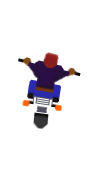
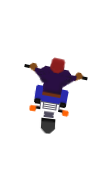
Add offroad sprites and basic functionalities

Changed region(s): [[0.18, 0.2717, 0.9, 0.7337]]

diff --git a/javascript/Sprite.js b/javascript/Sprite.js
@@ -10,38 +10,95 @@ class Sprite {
         this.w;
         this.h;
         let spriteSpeed;
+        this.isXWing = false;
 
         // Depending on the sprite variable, we will render different type of cars/blocks/rocks:
         if (sprite === "car") {
             // Since we have multiple cars, we will create a random variable so we render different images:
-            randomNumImage = Math.floor(Math.random() * 8) + 1;
+            randomNumImage = Math.floor(Math.random() * 10) + 1;
             this.img.src = `images/sprite${randomNumImage}.png`;
         } else if (sprite === "rock") {
             // Since we have multiple rocks, we will create a random variable so we render different images:
             // todo Adapt to rocks: randomNumImage = Math.floor(Math.random() * 7) + 1;
             // todo Adapt to rocks: this.img.src = `images/car${randomNumImage}.png`;
+            // console.log("Rock sprites coming.") // * TEST
+            randomNumImage = Math.floor(Math.random() * 7) + 1;
+            // If the randomNumImage is 7, we will render our dino GIF:
+            if (randomNumImage === 8) {
+                this.img.src = `images/rock-sprite-${randomNumImage}.gif`;
+            } else {
+                this.img.src = `images/rock-sprite-${randomNumImage}.png`;
+            }
         }
-        console.log(this.img.src);
+        // console.log(this.img.src); // * TEST
         // We also need a variable to randomly position the image on the X axis (120, 208, 296 or 384 pixels, which are the X position of the lanes of the vehicles):
         let randomNumX = 0;
         // todo We will create a setInterval so the sprite Speed goes up (every 10 seconds)
 
-        // The road blocks should move as fast as the road and should only be on the side left lane (89px):
-
-        if (randomNumImage === 8) {
-            spriteSpeed = 4;
-            randomNumX = 120;
-            this.w = 80;
-            this.h = 80;
+        // The road blocks should move as fast as the road and should only be on the side left lane (120px):
+        if (sprite === "car") {
+            if (randomNumImage === 8) {
+                spriteSpeed = 4;
+                randomNumX = 120;
+                this.w = 80;
+                this.h = 80;
+            } else {
+                spriteSpeed = 2;
+                randomNumX = Math.floor(Math.random() * 4) * 88 + 120;
+                if (randomNumImage === 9 || randomNumImage === 10) {
+                    this.w = 80;
+                    this.h = 120;
+                } else {
+                    this.w = 100;
+                    this.h = 150;
+                }
+            }
         } else {
-            spriteSpeed = 2;
+            console.log("Will draw rock sprites")
             randomNumX = Math.floor(Math.random() * 4) * 88 + 120;
-            this.w = 100;
-            this.h = 150;
+
+            // If the randomNumImage is 2, we will render a motorcycle wich is smaller than the other sprites:
+            if (randomNumImage === 2) {
+                spriteSpeed = 2;
+                this.w = 80;
+                this.h = 120;
+                this.y = 140;
+            }
+            // If the randomNumImage is 3, we will render our X-Wing faster then the road (and it will move also on the X axis):
+            else if (randomNumImage === 3) {
+                randomNumX = 0;
+                this.isXWing = true;
+                spriteSpeed = 10;
+                this.w = 300;
+                this.h = 300;
+                this.y = 0;
+            } 
+            // If the randomNumImage is 4 or 5, we will render our rocks as fast as the road:
+            else if (randomNumImage === 4 || randomNumImage === 5) {
+                spriteSpeed = 4;
+                this.w = 100;
+                this.h = 150;
+                this.y = 140;
+            } else if (randomNumImage === 6) {
+                spriteSpeed = 4;
+                this.w = 150;
+                this.h = 100;
+                this.y = 140;
+            } else if (randomNumImage === 7) {
+                spriteSpeed = 4;
+                this.w = 150;
+                this.h = 150;
+                this.y = 140;
+            }
+            else {
+                spriteSpeed = 2;
+                this.w = 100;
+                this.h = 150;
+                this.y = 140;
+            }
         }
 
         this.x = randomNumX;
-        this.y = 140;
         this.speed = spriteSpeed;
     }
 
@@ -49,9 +106,15 @@ class Sprite {
     // Draw it:
     draw = () => {
         ctx.drawImage(this.img, this.x, this.y, this.w, this.h);
+        
     };
     // Move it torwards the bottom;
     move = () => {
-        this.y += this.speed;
+        if (this.isXWing) {
+            this.x += this.speed;
+            this.y += this.speed;
+        } else {
+            this.y += this.speed;
+        }
     };
 }

diff --git a/javascript/main.js b/javascript/main.js
@@ -14,27 +14,31 @@ const exitBtn = document.querySelector("#exit-btn");
 const startOffroadBtn = document.querySelector("#start-offroad-btn");
 // Canvas:
 const canvas = document.querySelector("#main-canvas");
-// ? const canvasOffroad = document.querySelector("#offroad-canvas");
+// Note that we will use the same canvas for both roads (normal and offroad).
 
 // Create the canvas variables:
 const ctx = canvas.getContext("2d");
-// ? const ctxOffroad = canvasOffroad.getContext("2d");
 
 // Create a general game object (to be accessed by other functions, event listeners, etc..):
 let mainGameObj;
-// ? let offroadGameObj;
 
 // * STATE MANAGEMENT FUNCTIONS
 
 // Create a function to start the main game:
-const startMainGame = () => {
+// Note the functions parameter that will come from the event listeners, and will render either the normal or the off road.
+const startMainGame = (isNormalGame) => {
     console.log("Starting main game!");
     // * 1. Change the game screens:
     startScreen.style.display = "none";
     canvas.style.display = "block";
 
     // * 2. Create game elements:
-    mainGameObj = new MainGame();
+    // If isNormalGame, we will send "true" as an argument to create the new object:
+    if (isNormalGame) {
+        mainGameObj = new MainGame(true);
+    } else {
+        mainGameObj = new MainGame(false);
+    }
     // console.log(mainGameObj); //* TEST
 
     // * 3. Start the game loop (recursion):
@@ -42,22 +46,6 @@ const startMainGame = () => {
     mainGameObj.gameLoop();
 };
 
-// ? const startOffroadGame = () => {
-//     console.log("Starting offroad game!");
-//     // * 1. Change the game screens:
-//     winScreen.style.display = "none";
-//     canvasOffroad.style.display = "block";
-
-//     // * 2. Create game elements:
-//     offroadGameObj = new OffroadGame();
-//     console.log(offroadGameObj);
-
-//     // * 3. Start the game loop (recursion):
-//     // Access the method from the new obejct:
-//     offroadGameObj.gameLoop();
-// }
-
-// ? startOffroadGame(); // ! Must be inside an event listener! will run before OffroadGame is created.
 
 // Create a function to be called by the keydown event listener and change the rider's direction:
 const changeRidersDirKeyDown = (event) => {
@@ -106,10 +94,15 @@ const changeRidersDirKeyUp = (event) => {
 // * ADD EVENT LISTENERS
 
 // Create an event listener fot the startMainGameBtn to execute startMainGame function:
-startMainGameBtn.addEventListener("click", startMainGame);
-
-// ? Create an event listener fot the startOffroadGameBtn to execute startOffroadGame function:
-// ? startOffroadBtn.addEventListener("click", startOffroadGame);
+startMainGameBtn.addEventListener("click", () => {
+    startMainGame(true);
+})
+// Note the boolean argument sent in the function, so we can render the normal road or the offroad set.
+// Create an event listener fot the startOffroadGameBtn to execute startOffroadGame function:
+startOffroadBtn.addEventListener("click", () => {
+    console.log("Going off road");
+    startMainGame(false);
+})
 
 // Let's create a keydown event listener to control the rider, it will call the changeRidersDirection function:
 window.addEventListener("keydown", (event) => {

diff --git a/javascript/MainGame.js b/javascript/MainGame.js
@@ -1,21 +1,28 @@
 // * Here we create the general class for the main game:
 class MainGame {
     // * Add main game's properties (all main game's elements):
-    constructor() {
+    constructor(isNormalGame) {
         // * In this constructor we have all the initial elements and values of the main game.
         // The background:
         this.background = new Image();
         this.background.src = "images/blue-sky1.jpg";
 
+        // Let's create a variable to decide if the game is normal or offroad:
+        this.isNormalGame = isNormalGame;
         // Create a new Road object:
         // This is a different road from the following ones, this is the first road show already when the game starts:
-        this.firstRoad = new Road(0, true);
+        if (this.isNormalGame) {
+            this.firstRoad = new Road(0, true);
+        } else {
+            this.firstRoad = new Road(0, false);
+        }
+
         // Create an array of new road sets:
         this.roadArr = [];
 
         // Create a new Sprite Object: //* TEST for one sprite.
         // First we define a variable to define if we want cars/blocks or rocks:
-        this.isCarSprite = true;
+        this.isCarSprite = isNormalGame;
         // Now we do a conditional to get back the object depending on the sprite:
         // this.sprite;
         // if (isCarSprite) {
@@ -43,7 +50,12 @@ class MainGame {
         ) {
             // console.log("Running roadKeepsMovingDown"); //* TEST
             // Let's create more road sets but starting before the first road:
-            let newRoadSet = new Road(-canvas.height, true);
+            let newRoadSet;
+            if (this.isNormalGame) {
+                newRoadSet = new Road(-canvas.height, true);
+            } else {
+                newRoadSet = new Road(-canvas.height, false);
+            }
             this.roadArr.push(newRoadSet);
         }
         // Check that the array is adding and removing elements correctly:
@@ -143,10 +155,10 @@ class MainGame {
             eachRoad.draw();
         });
         this.drawBackground();
+        this.rider.draw();
         this.spritesArr.forEach((eachSprite) => {
             eachSprite.draw();
         });
-        this.rider.draw();
 
         // * 4. Recursion (requestAnimationFrame)
         // Only run this if isGameOn is true:

diff --git a/javascript/Rider.js b/javascript/Rider.js
@@ -17,9 +17,9 @@ class Rider {
             up: new Image(),
         };
         // The rider's image will change depending if it riding straight, left or right:
-        this.imagesObj.left.src = "images/moto1-left.png";
-        this.imagesObj.right.src = "images/moto1-right.png";
-        this.imagesObj.up.src = "images/moto1.png";
+        this.imagesObj.left.src = "images/moto-left.png";
+        this.imagesObj.right.src = "images/moto-right.png";
+        this.imagesObj.up.src = "images/moto.png";
         // Due to optimization, let's create variable of those images:
         this.imageLeft = this.imagesObj.left;
         this.imageRight = this.imagesObj.right;

diff --git a/javascript/Road.js b/javascript/Road.js
@@ -2,6 +2,7 @@
 class Road {
     // * Add road's properties:
     constructor(positionY, isNormalGame) {
+        
         // Road's image (will depend of the variables so we see road or offroad):
         this.img = new Image();
         if (isNormalGame) {

diff --git a/styles/style.css b/styles/style.css
@@ -14,8 +14,7 @@ body {
 
 #main-canvas,
 #gameover-screen,
-#win-screen,
-#offroad-canvas,
+/* #win-screen, */
 #thankyou-screen {
     display: none;
 }
